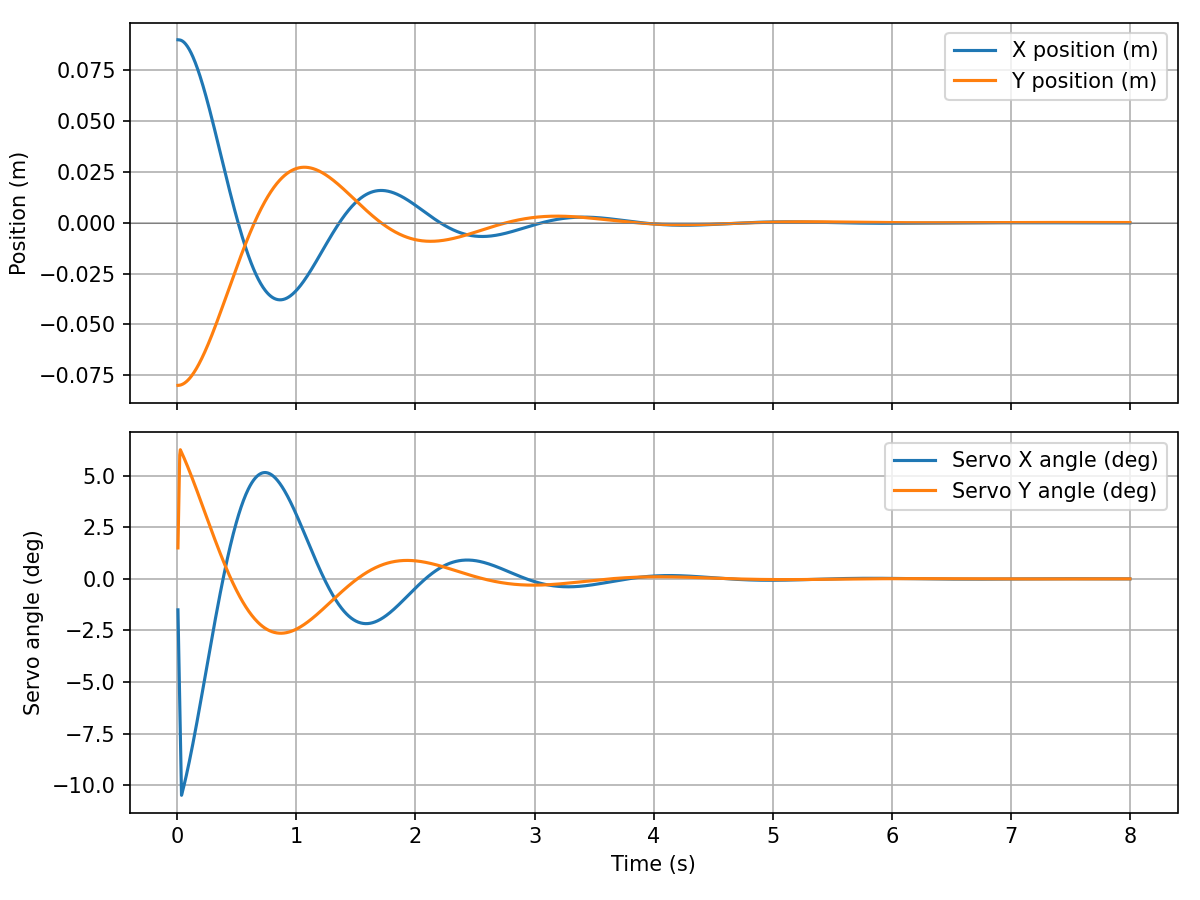
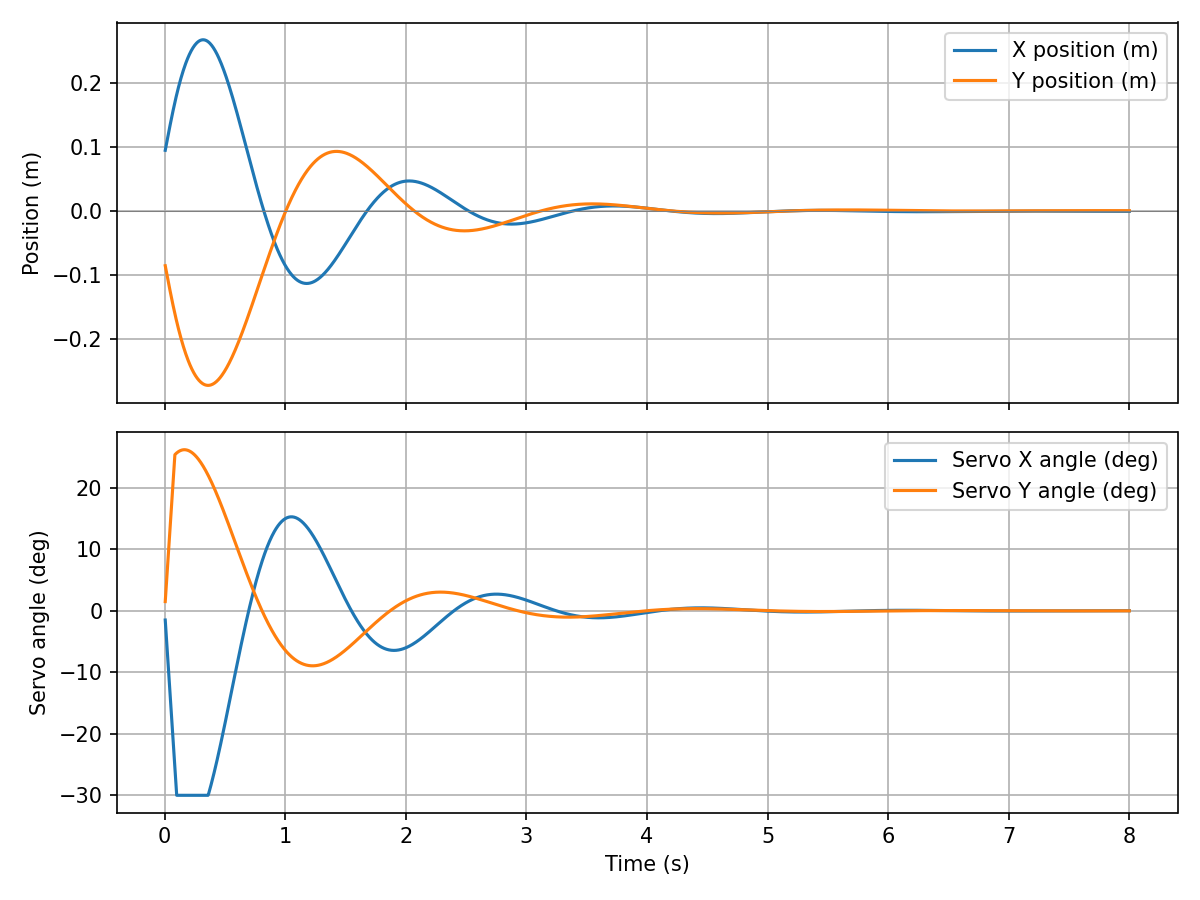
changed commenting on mainfile

diff --git a/ball_on_plate_sim.py b/ball_on_plate_sim.py
@@ -2,22 +2,11 @@
 Ball-on-Plate Simulation
 -------------------------------------------------------------------
 Pure-Python simulation of 2-axis PID control balancing a ball on a
-tilting plate, driven by two servos (X-axis, Y-axis). Meant to be
-run and tuned entirely in software before the physical rig (Arduino
-+ MG996R servos + resistive touchscreen) is built. Swapping in real
-hardware later just means replacing the "read position" / "command
+tilting plate, driven by two servos (X-axis, Y-axis).  Swapping in real
+hardware later: replacie the "read position" / "command
 servo" calls in the control loop with serial reads/writes.
 
-Physics notes:
-- Ball is modeled as a solid sphere rolling without slipping, so the
-  effective acceleration along the plate is (5/7) * g * sin(theta)
-  rather than g * sin(theta) -- accounts for the ball's rotational
-  inertia, which real ball-on-plate rigs need to account for.
-- Servo commands are clamped to the mechanical angle limit AND rate
-  limited (a real servo can't jump instantly to a new angle).
-- Sample rate is set to 200 Hz, a realistic loop rate for a Python
-  process reading Arduino over serial (2000 Hz, as in the earlier
-  draft, is unrealistic once serial I/O is in the loop).
+
 """
 
 import numpy as np
@@ -130,7 +119,7 @@ def run_simulation(kpx=120, kix=0.5, kdx=15, kpy=80, kiy=0.5, kdy=15,
 
     # Ball's starting position (m) and velocity (m/s) on the plate.
     x, y = start_x, start_y
-    vx, vy = 5.0, 5.0
+    vx, vy = 1.0, -1.0
 
     # Log everything so it can be plotted/animated after the loop.
     history = {"t": [], "x": [], "y": [], "servo_x": [], "servo_y": []}
